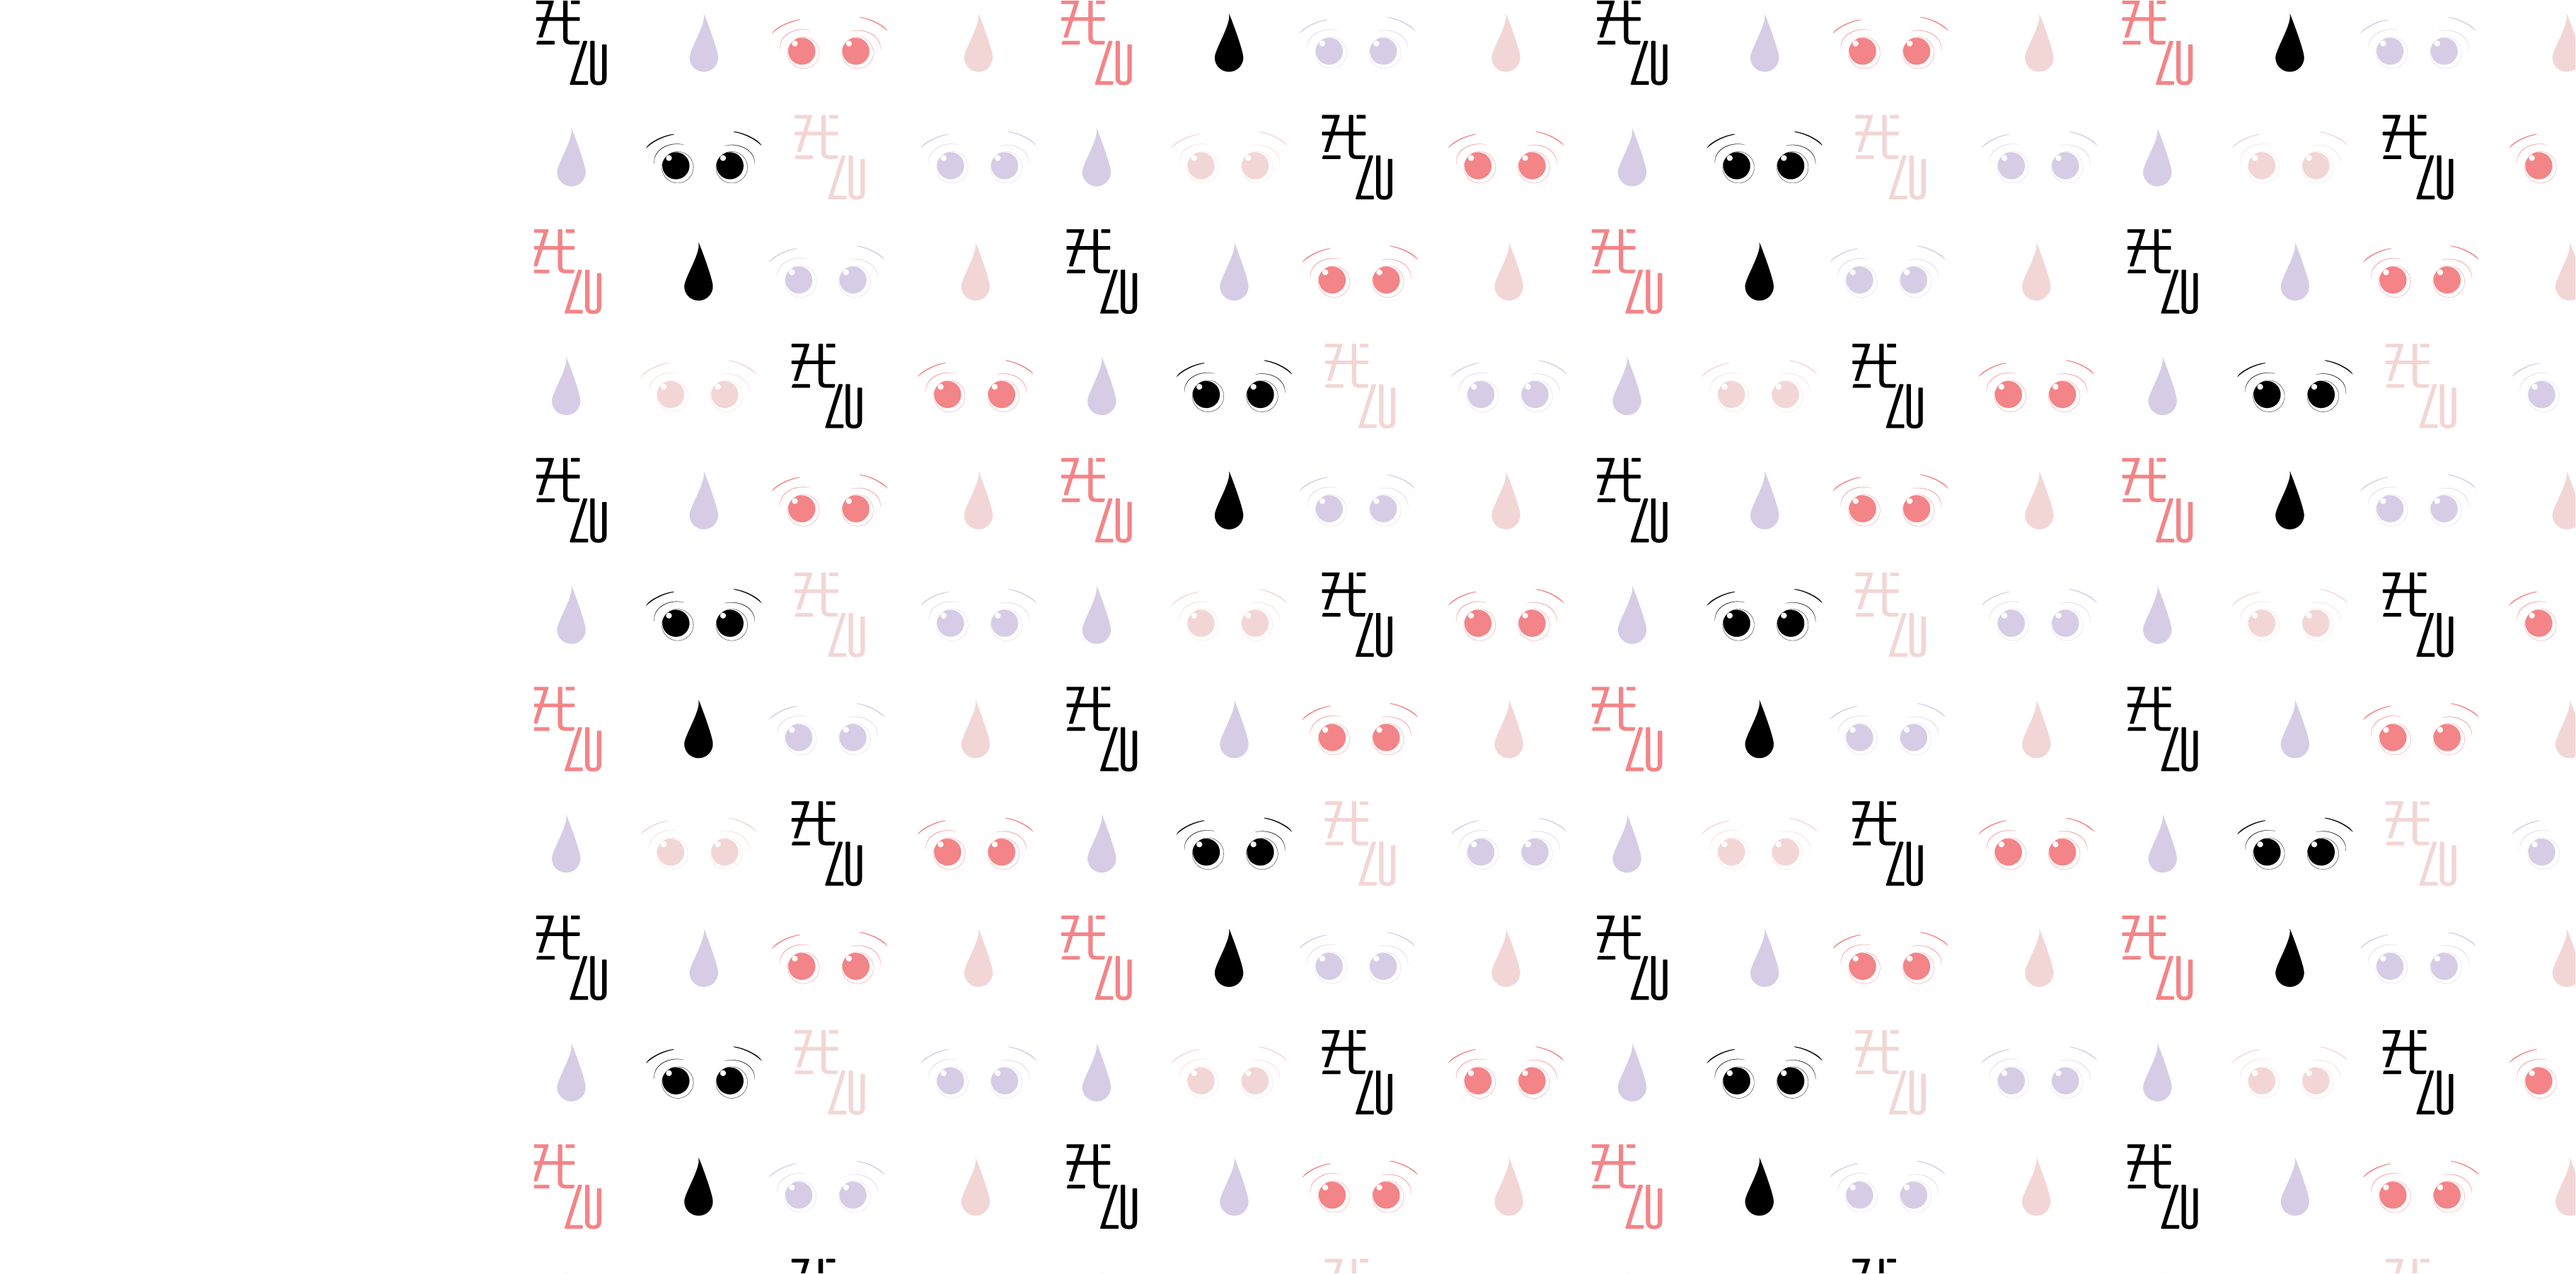
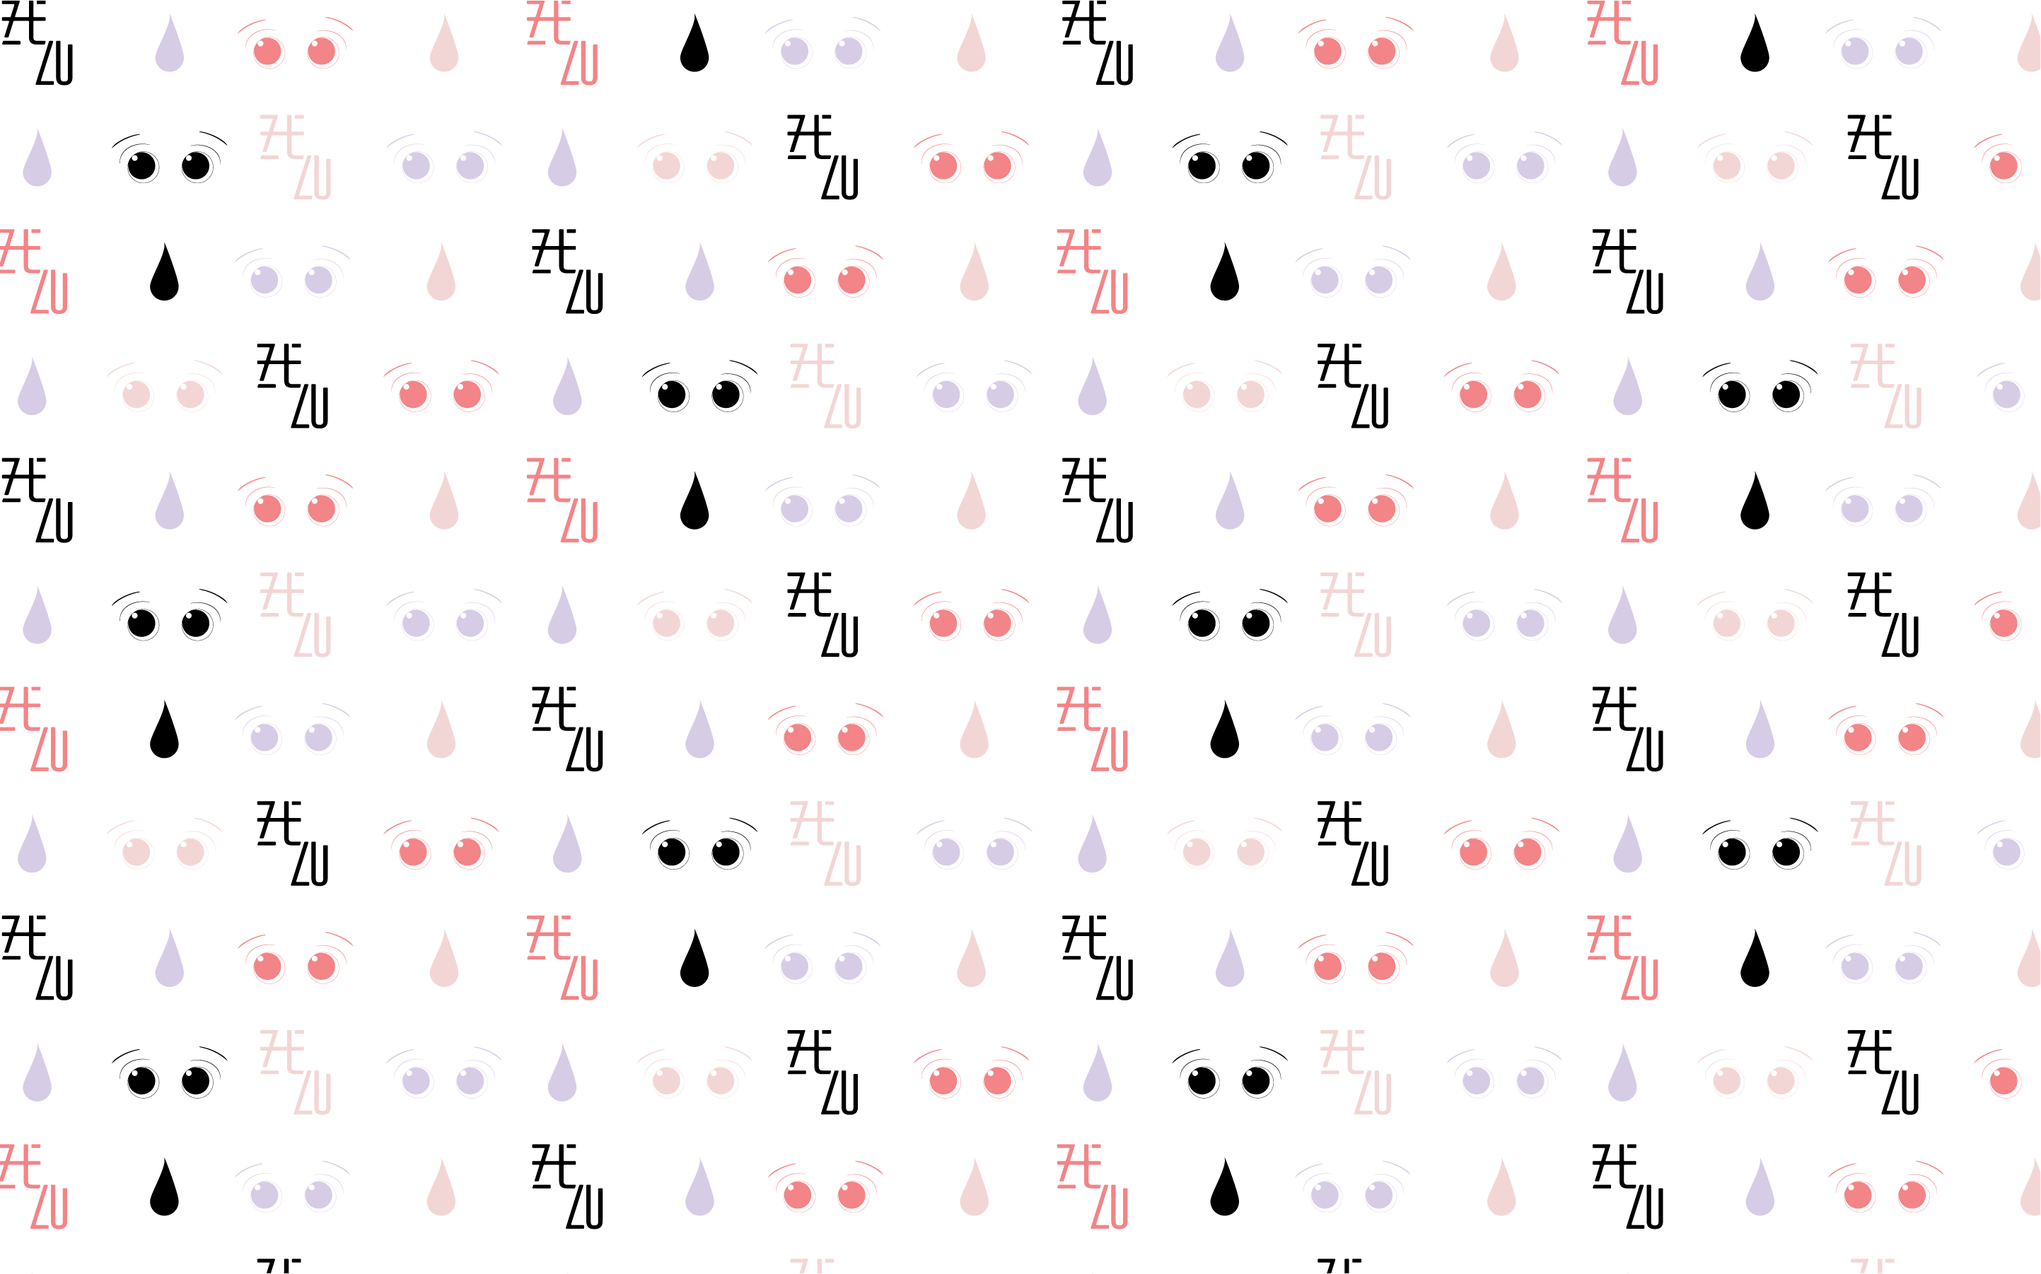
Add files via upload

diff --git a/galeria.html b/galeria.html
@@ -71,39 +71,24 @@
       <button class="filter-btn" data-filter="personajes">Personajes</button>
       <button class="filter-btn" data-filter="modelado">Modelado 3D</button>
       <button class="filter-btn" data-filter="digital">Representación digital</button>
+      <button class="filter-btn" data-filter="proceso">Detrás de cámaras</button>
     </div>
     <div class="gallery-grid" id="galleryGrid">
-      <div class="gallery-item" data-cat="render">
-        <img src="assets/img/portfolio/render_casa.jpg" alt="Renderizado · Fachada">
-        <div class="cap">Renderizado · Fachada</div>
-      </div>
-      <div class="gallery-item" data-cat="prototipado">
-        <img src="assets/img/portfolio/impresion_esfera.jpg" alt="Prototipado · Impresión en curso">
-        <div class="cap">Prototipado · Impresión en curso</div>
-      </div>
-      <div class="gallery-item" data-cat="personajes">
-        <img src="assets/img/portfolio/gorila_escultura.jpg" alt="Escultura decorativa a medida">
-        <div class="cap">Escultura decorativa a medida</div>
-      </div>
-      <div class="gallery-item" data-cat="render">
-        <img src="assets/img/portfolio/render_interior_sala.jpg" alt="Renderizado · Interior">
-        <div class="cap">Renderizado · Interior</div>
+      <div class="gallery-item" data-cat="producto">
+        <img src="assets/img/portfolio/personajes_helice_resina.jpg" alt="Diseño de producto · Hélices en resina">
+        <div class="cap">Diseño de producto · Hélices en resina</div>
       </div>
       <div class="gallery-item" data-cat="producto">
-        <img src="assets/img/portfolio/soporte_control.jpg" alt="Diseño de producto · Soporte de control">
-        <div class="cap">Diseño de producto · Soporte de control</div>
+        <img src="assets/img/portfolio/producto_soporte_camara.jpg" alt="Diseño de producto · Soporte técnico">
+        <div class="cap">Diseño de producto · Soporte técnico</div>
       </div>
-      <div class="gallery-item" data-cat="render">
-        <img src="assets/img/portfolio/render_lata.jpg" alt="Prototipado · Electrónica embebida">
-        <div class="cap">Prototipado · Electrónica embebida</div>
+      <div class="gallery-item" data-cat="prototipado">
+        <img src="assets/img/portfolio/producto_pieza_articulada.jpg" alt="Prototipado · Pieza articulada">
+        <div class="cap">Prototipado · Pieza articulada</div>
       </div>
-      <div class="gallery-item" data-cat="render">
-        <img src="assets/img/portfolio/render_chimenea.jpg" alt="Renderizado · Producto">
-        <div class="cap">Renderizado · Producto</div>
-      </div>
-      <div class="gallery-item" data-cat="render">
-        <img src="assets/img/portfolio/render_pcb.jpg" alt="Renderizado · Arquitectónico">
-        <div class="cap">Renderizado · Arquitectónico</div>
+      <div class="gallery-item" data-cat="personajes">
+        <img src="assets/img/portfolio/personajes_corona_organica.jpg" alt="Pieza escultórica a medida">
+        <div class="cap">Pieza escultórica a medida</div>
       </div>
       <div class="gallery-item" data-cat="llaveros">
         <img src="assets/img/portfolio/llavero_corazon.jpg" alt="Llavero NFC · Corazón">
@@ -180,6 +165,70 @@
       <div class="gallery-item" data-cat="modelado">
         <img src="assets/img/portfolio/modelado_cortador_solidworks.jpg" alt="Modelado 3D · Producto técnico">
         <div class="cap">Modelado 3D · Producto técnico</div>
+      </div>
+      <div class="gallery-item" data-cat="producto">
+        <img src="assets/img/portfolio/producto_pieza_diamante.jpg" alt="Diseño de producto · Pieza a medida">
+        <div class="cap">Diseño de producto · Pieza a medida</div>
+      </div>
+      <div class="gallery-item" data-cat="producto">
+        <img src="assets/img/portfolio/producto_soporte_crampon.jpg" alt="Diseño de producto · Soporte técnico">
+        <div class="cap">Diseño de producto · Soporte técnico</div>
+      </div>
+      <div class="gallery-item" data-cat="prototipado">
+        <img src="assets/img/portfolio/prototipado_disco_lattice.jpg" alt="Prototipado · Disco lattice">
+        <div class="cap">Prototipado · Disco lattice</div>
+      </div>
+      <div class="gallery-item" data-cat="producto">
+        <img src="assets/img/portfolio/producto_puntas_crampon.jpg" alt="Diseño de producto · Piezas de precisión">
+        <div class="cap">Diseño de producto · Piezas de precisión</div>
+      </div>
+      <div class="gallery-item" data-cat="producto">
+        <img src="assets/img/portfolio/producto_brazalete_organico.jpg" alt="Diseño de producto · Pieza orgánica">
+        <div class="cap">Diseño de producto · Pieza orgánica</div>
+      </div>
+      <div class="gallery-item" data-cat="producto">
+        <img src="assets/img/portfolio/producto_clip_gafas.jpg" alt="Diseño de producto · Accesorio a medida">
+        <div class="cap">Diseño de producto · Accesorio a medida</div>
+      </div>
+      <div class="gallery-item" data-cat="prototipado">
+        <img src="assets/img/portfolio/prototipado_panel_lattice.jpg" alt="Prototipado · Panel lattice">
+        <div class="cap">Prototipado · Panel lattice</div>
+      </div>
+      <div class="gallery-item" data-cat="personajes">
+        <img src="assets/img/portfolio/personajes_trofeo_resina.jpg" alt="Pieza escultórica · Trofeo en resina">
+        <div class="cap">Pieza escultórica · Trofeo en resina</div>
+      </div>
+      <div class="gallery-item" data-cat="personajes">
+        <img src="assets/img/portfolio/personajes_dama_concha.jpg" alt="Pieza escultórica a medida">
+        <div class="cap">Pieza escultórica a medida</div>
+      </div>
+      <div class="gallery-item" data-cat="personajes">
+        <img src="assets/img/portfolio/personajes_dragon_resina.jpg" alt="Pieza escultórica · Criatura fantástica">
+        <div class="cap">Pieza escultórica · Criatura fantástica</div>
+      </div>
+      <div class="gallery-item" data-cat="personajes">
+        <img src="assets/img/portfolio/personajes_osos_cabana.jpg" alt="Pieza escultórica · Escena en resina">
+        <div class="cap">Pieza escultórica · Escena en resina</div>
+      </div>
+      <div class="gallery-item" data-cat="proceso">
+        <img src="assets/img/portfolio/proceso_impresion_resina.jpg" alt="Proceso · Impresión en resina">
+        <div class="cap">Proceso · Impresión en resina</div>
+      </div>
+      <div class="gallery-item" data-cat="proceso">
+        <img src="assets/img/portfolio/proceso_impresion_fdm.jpg" alt="Proceso · Impresión FDM">
+        <div class="cap">Proceso · Impresión FDM</div>
+      </div>
+      <div class="gallery-item" data-cat="proceso">
+        <img src="assets/img/portfolio/proceso_pintura_aerografo.jpg" alt="Proceso · Pintura a aerógrafo">
+        <div class="cap">Proceso · Pintura a aerógrafo</div>
+      </div>
+      <div class="gallery-item" data-cat="proceso">
+        <img src="assets/img/portfolio/proceso_molde_silicona.jpg" alt="Proceso · Molde de silicona">
+        <div class="cap">Proceso · Molde de silicona</div>
+      </div>
+      <div class="gallery-item" data-cat="personajes">
+        <img src="assets/img/portfolio/personajes_katana_sarita.jpg" alt="Diseño original · Katana a medida">
+        <div class="cap">Diseño original · Katana a medida</div>
       </div>
     </div>
   </div>

diff --git a/assets/css/style.css b/assets/css/style.css
@@ -190,7 +190,7 @@ section{ padding: 88px 0; position: relative; }
   opacity: .55;
 }
 .loading-grid img{
-  width: 30px; height: 30px; margin: auto;
+  width: 30px; height: auto; margin: auto;
   animation: spin-loading 2.2s linear infinite;
   transition: transform .6s cubic-bezier(.55,0,1,.45), opacity .6s;
 }
@@ -198,7 +198,7 @@ section{ padding: 88px 0; position: relative; }
 .loading-center{
   position: relative; z-index: 2; text-align:center;
 }
-.loading-center img{ width: 84px; height:84px; margin: 0 auto 14px; animation: spin-loading 1.6s linear infinite; }
+.loading-center img{ width: 84px; height:auto; margin: 0 auto 14px; animation: spin-loading 1.6s linear infinite; }
 .loading-center p{ font-family: var(--font-display); font-weight:700; color: var(--coral-deep); letter-spacing: .04em; }
 
 #loading-overlay.is-error .loading-grid img{
@@ -251,7 +251,7 @@ section{ padding: 88px 0; position: relative; }
   position: relative; overflow: hidden;
 }
 .service-card:hover{ transform: translateY(-6px); box-shadow: 0 18px 36px rgba(32,31,31,0.09); border-color: transparent; }
-.service-card .icon{ width: 46px; height: 46px; margin-bottom: 16px; transition: transform .35s var(--ease); }
+.service-card .icon{ width: 46px; height: auto; margin-bottom: 16px; transition: transform .35s var(--ease); }
 .service-card:hover .icon{ transform: rotate(-8deg) scale(1.08); }
 .service-card h3{ font-size: 19px; margin-bottom: 6px; }
 .service-card p{ color: rgba(32,31,31,0.62); font-size: 14.5px; margin: 0; }
@@ -318,7 +318,7 @@ section{ padding: 88px 0; position: relative; }
 }
 .service-row:last-child{ border-bottom: 1px solid var(--line); }
 .service-row:hover{ background: rgba(243,132,135,0.05); }
-.service-row .icon{ width: 62px; height: 62px; transition: transform .4s var(--ease); }
+.service-row .icon{ width: 62px; height: auto; transition: transform .4s var(--ease); }
 .service-row:hover .icon{ transform: rotate(10deg) scale(1.12); }
 .service-row h3{ font-size: 24px; }
 .service-row p{ margin: 6px 0 0; color: rgba(32,31,31,0.6); }
@@ -455,10 +455,13 @@ textarea{ min-height: 90px; resize: vertical; }
    ========================================================================== */
 .contact-hero{
   text-align:center; padding-top: 150px;
-  background-image: linear-gradient(rgba(253,251,248,0.86), rgba(253,251,248,0.86)), url('../img/pattern_bg.png');
+  background-image: linear-gradient(rgba(253,251,248,0.6), rgba(253,251,248,0.6)), url('../img/pattern_bg.png');
   background-repeat: no-repeat, repeat;
-  background-size: cover, 380px auto;
+  background-size: cover, 900px auto;
   background-position: center, center top;
+}
+@media (max-width: 720px){
+  .contact-hero{ background-size: cover, 560px auto; }
 }
 .contact-links{ display:grid; grid-template-columns: repeat(3,1fr); gap: 20px; margin-top: 50px; }
 @media (max-width: 780px){ .contact-links{ grid-template-columns: 1fr; } }
@@ -467,7 +470,7 @@ textarea{ min-height: 90px; resize: vertical; }
   text-align:center; transition: transform .25s var(--ease), box-shadow .25s var(--ease);
 }
 .contact-card:hover{ transform: translateY(-6px); box-shadow: 0 18px 36px rgba(32,31,31,0.1); }
-.contact-card .ic{ width: 52px; height:52px; margin: 0 auto 16px; }
+.contact-card .ic{ width: 52px; height:auto; margin: 0 auto 16px; }
 .contact-card h3{ font-size: 18px; }
 .contact-card p{ color: rgba(32,31,31,0.6); font-size: 14px; margin: 6px 0 18px; }
 

diff --git a/scaneo-3d.html b/scaneo-3d.html
@@ -134,7 +134,7 @@
     </div>
     <div class="usecases-grid">
       <div class="usecase-card reveal">
-        <img src="assets/img/portfolio/soporte_control.jpg" alt="Pieza técnica escaneada y reproducida">
+        <img src="assets/img/portfolio/producto_soporte_camara.jpg" alt="Pieza técnica escaneada y reproducida">
         <div class="body">
           <h3>Piezas técnicas</h3>
           <p>Soportes, engranajes o conectores que ya no se consiguen — los escaneamos y los volvemos a fabricar.</p>
@@ -148,7 +148,7 @@
         </div>
       </div>
       <div class="usecase-card reveal">
-        <img src="assets/img/portfolio/impresion_esfera.jpg" alt="Pieza escaneada en proceso de reproducción">
+        <img src="assets/img/portfolio/producto_pieza_articulada.jpg" alt="Pieza escaneada en proceso de reproducción">
         <div class="body">
           <h3>Objetos únicos</h3>
           <p>Figuras, moldes o piezas irrepetibles que quieres duplicar tal cual son.</p>
